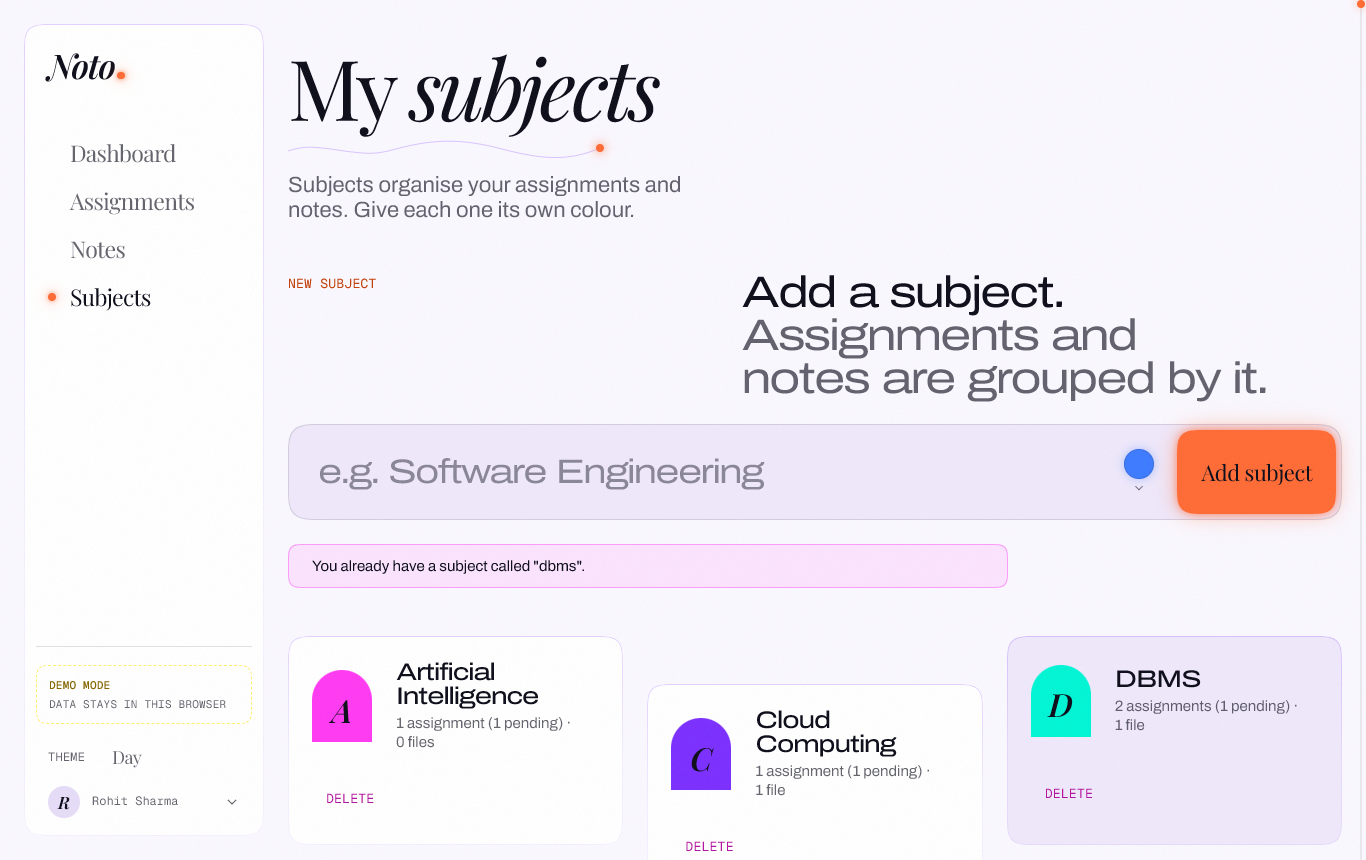
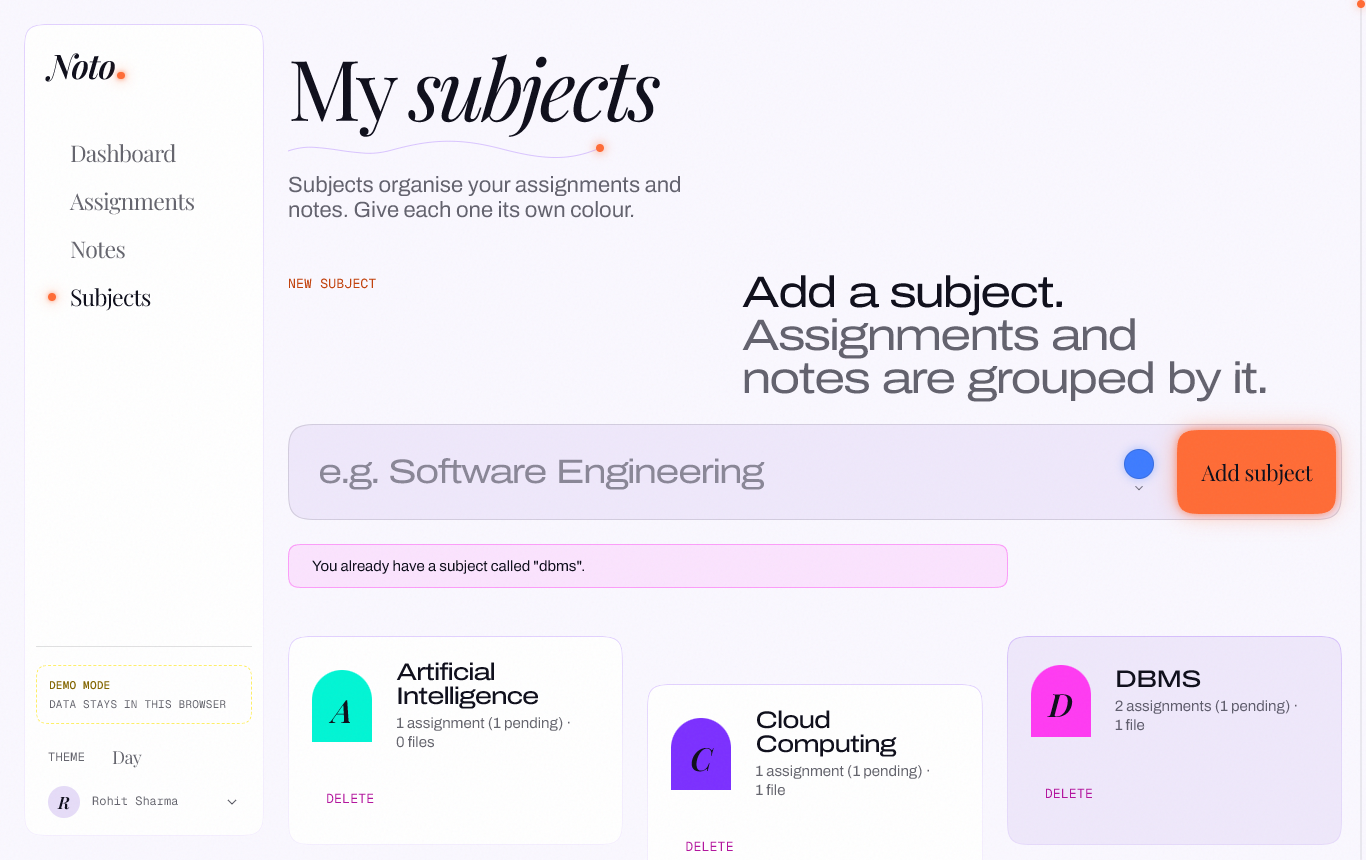
docs+test: round 6 shipped (merged, deployed, verified live); live API checks subject colours

Changed region(s): [[0.7379, 0.7558, 0.7994, 0.8767], [0.2152, 0.7558, 0.2767, 0.8767]]

diff --git a/PROJECT_CONTEXT.md b/PROJECT_CONTEXT.md
@@ -2,7 +2,7 @@
 
 ## Resume Here (read first)
 
-Last session: 2026-10-11. **Round 6** (12 owner changes, see `LANDING_TASKS.md`) finished rounds 4–6: all three are merged into `main` and deployed (backend stack and Amplify). Verified locally: landing motion 42/42, demo E2E 39/39, backend 37/37, frontend unit 21/21. Before that, **Round 5** (19 owner changes across the landing page and the app: grey intro only on the wordmark, even section spacing, steps under titles, row hover cards, AWS tint inside tiles, swapped Night orbs, Noto in the logo face, Home button and signed-in landing menu, `/` opens the dashboard when signed in, Day/Night only with the circle switch, real names from sign-up, subject colours, softer glows, one-screen sign-in, contained meter) is on branch **`feature/landing-round5`** (from round 4), pushed, **not merged and not deployed**; checklist and notes in `LANDING_TASKS.md` (Round 5). Verified locally: landing motion 41/41, demo E2E 38/38, backend 37/37, frontend unit 20/20. The subject-colour backend change needs a Lambda deploy before colours sync across devices (ask first). Landing round 4 (grey first-load intro with a falling dot and a colour ripple, evenly spaced "How it works", no top-left ball, no hover on "Inside the app", copy without "student"/"project", "Back to home" on sign-in pages) is on branch **`feature/landing-round4`**, pushed to GitHub, **not merged and not deployed**: the owner reviews it locally first (`npm run dev`) and will ask for more changes. Verified locally: landing motion 38/38, demo E2E 34/34, frontend unit 19/19. Before that, 2026-10-10: "Forgot password" (`/reset`) added, merged into `main` and deployed; self-service sign-up and reset verified on the live pool (live API 44/44). Landing round 3 (continuous purple flow, new orbs, HUD, scroll pin, theme-matched screenshots; see `LANDING_TASKS.md`) is merged into `main`, pushed and **deployed to Amplify**; verified live (landing motion 32/32, live site 17/17). **Noto is online:** https://main.dg6fh880g1p8b.amplifyapp.com (AWS Amplify Hosting, HTTPS) against the live
+Last session: 2026-10-11. **Round 6** (12 owner changes, see `LANDING_TASKS.md`) finished rounds 4–6: all three are merged into `main` and deployed (backend stack and Amplify). Verified locally: landing motion 42/42, demo E2E 40/40, backend 37/37, frontend unit 21/21; verified live on https://main.dg6fh880g1p8b.amplifyapp.com: live API 46/46, live site 17/17, landing motion 42/42. Before that, **Round 5** (19 owner changes across the landing page and the app: grey intro only on the wordmark, even section spacing, steps under titles, row hover cards, AWS tint inside tiles, swapped Night orbs, Noto in the logo face, Home button and signed-in landing menu, `/` opens the dashboard when signed in, Day/Night only with the circle switch, real names from sign-up, subject colours, softer glows, one-screen sign-in, contained meter) is on branch **`feature/landing-round5`** (from round 4), pushed, **not merged and not deployed**; checklist and notes in `LANDING_TASKS.md` (Round 5). Verified locally: landing motion 41/41, demo E2E 38/38, backend 37/37, frontend unit 20/20. The subject-colour backend change needs a Lambda deploy before colours sync across devices (ask first). Landing round 4 (grey first-load intro with a falling dot and a colour ripple, evenly spaced "How it works", no top-left ball, no hover on "Inside the app", copy without "student"/"project", "Back to home" on sign-in pages) is on branch **`feature/landing-round4`**, pushed to GitHub, **not merged and not deployed**: the owner reviews it locally first (`npm run dev`) and will ask for more changes. Verified locally: landing motion 38/38, demo E2E 34/34, frontend unit 19/19. Before that, 2026-10-10: "Forgot password" (`/reset`) added, merged into `main` and deployed; self-service sign-up and reset verified on the live pool (live API 44/44). Landing round 3 (continuous purple flow, new orbs, HUD, scroll pin, theme-matched screenshots; see `LANDING_TASKS.md`) is merged into `main`, pushed and **deployed to Amplify**; verified live (landing motion 32/32, live site 17/17). **Noto is online:** https://main.dg6fh880g1p8b.amplifyapp.com (AWS Amplify Hosting, HTTPS) against the live
 AWS backend.
 
 | Item | State |

diff --git a/LANDING_TASKS.md b/LANDING_TASKS.md
@@ -337,7 +337,7 @@ Owner's list, in their order. This round ends with a merge into `main` and an Am
   the next colour automatically (not always violet).
 - [x] **R6-12. Meter elasticity back.** The 100% bar springs (overshoots and settles) like before,
   but never touches the "100%" label.
-- [ ] **R6-13. Ship.** Tests, docs, merge into `main`, push, deploy to Amplify, verify live.
+- [x] **R6-13. Ship.** Tests, docs, merge into `main`, push, deploy to Amplify, verify live.
 
 ### Round 6 notes
 
@@ -369,3 +369,11 @@ Owner's list, in their order. This round ends with a merge into `main` and an Am
   and moves on after each new subject unless one is picked by hand (+ unit test).
 - R6-12: the meter springs again (transform/left with `--ease-spring`), on a track that stops 11%
   short so the peak overshoot stays ~46 px clear of the "100%" label.
+- R6-13: merged `feature/round6` (which carries rounds 4 and 5) into `main` (fast-forward), pushed.
+  Backend: `sam deploy` (samconfig's changeset prompt cannot be answered non-interactively, so
+  `--no-confirm-changeset`; changeset was code-only: 3 Lambdas + HttpApi modified, no
+  replacements). Website: `deploy.ps1 -FrontendOnly`. The live site test caught a real bug: a long
+  email widened the new account button and the sidebar footer over the page (invisible rows
+  intercepting clicks); fixed (`grid-template-columns: minmax(0, 1fr)`, `.account { min-width: 0 }`)
+  and redeployed, with a demo E2E check. Verified live: API 46/46 (incl. subject colour saved /
+  bad colour rejected), website 17/17, landing motion 42/42.

diff --git a/HANDOFF.md b/HANDOFF.md
@@ -61,9 +61,9 @@ For detail, read `PROJECT_CONTEXT.md` next, then `CLAUDE.md` (the project rules)
 
 - Backend unit: `cd backend && npm test` (36/36).
 - Frontend unit: `cd frontend && npm test` (21/21).
-- Demo end-to-end: `cd e2e && npm test` (39/39). It needs a dev server in demo mode; set `E2E_BASE_URL` if that server is not on 5173.
+- Demo end-to-end: `cd e2e && npm test` (40/40). It needs a dev server in demo mode; set `E2E_BASE_URL` if that server is not on 5173.
 - Landing motion: `node e2e/landing-motion.mjs` with a dev server running (42/42).
-- Live API: `node e2e/live-api.mjs` (44/44). Live website: `node e2e/live-site.mjs` (17/17).
+- Live API: `node e2e/live-api.mjs` (46/46). Live website: `node e2e/live-site.mjs` (17/17).
 - The live tests create and delete their own temporary Cognito users.
 - Run the landing motion test against production with `E2E_BASE_URL=https://main.dg6fh880g1p8b.amplifyapp.com`.
 

diff --git a/CLAUDE.md b/CLAUDE.md
@@ -3118,7 +3118,7 @@ File Storage: S3 presigned upload/download verified live
 API: HTTP API + JWT authorizer deployed and verified
 Monitoring: Log groups, alarms, dashboard deployed; alert email/budget not yet configured
 Deployment: deploy.ps1 (-NoCloudFront until the account is verified; the site is then hosted on Amplify)
-Testing: 37 backend + 21 frontend unit, 39-check demo E2E, 42-check landing motion, 44-check live API, 17-check live website, all passing
+Testing: 37 backend + 21 frontend unit, 40-check demo E2E, 42-check landing motion, 46-check live API, 17-check live website, all passing
 Documentation: Complete; PROJECT_CONTEXT.md has the deployed resource list
 ```
 
